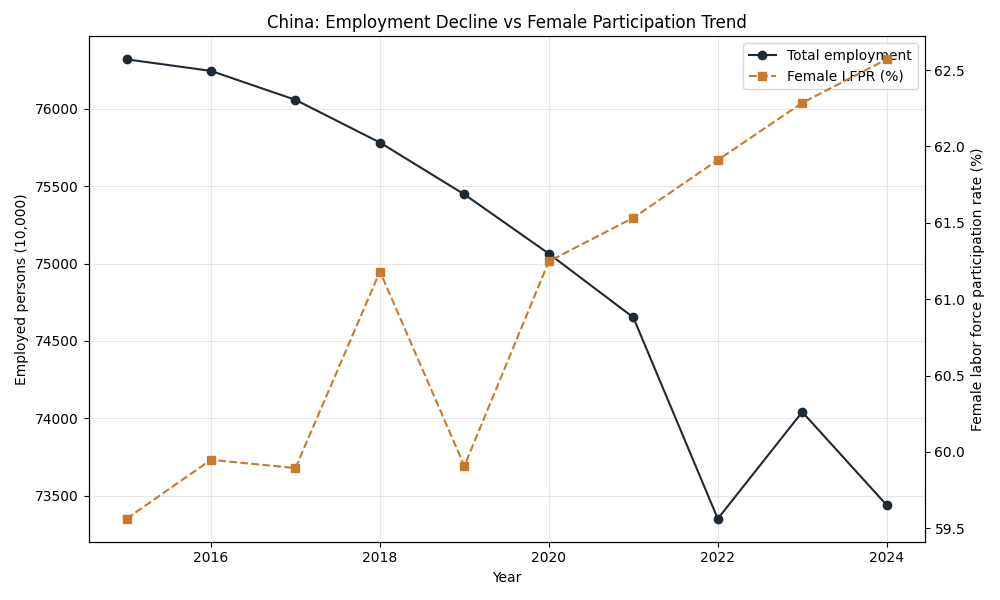
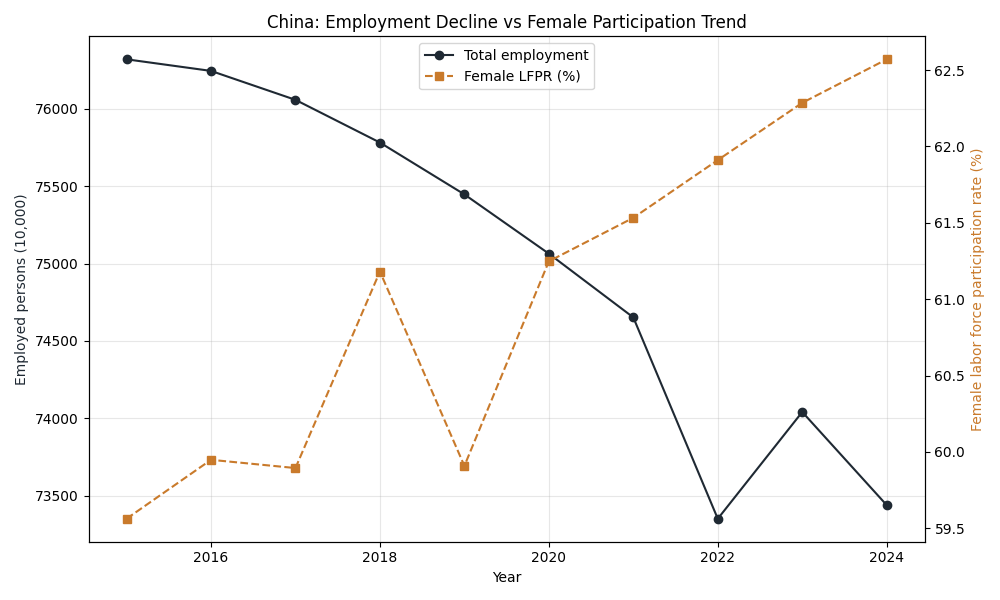
Fix all charts

diff --git a/07_visuals/CH_charts_code.py b/07_visuals/CH_charts_code.py
@@ -44,11 +44,11 @@ ax2 = ax1.twinx()
 # Left axis: total employment
 ax1.plot(df["Year"], df["Total"], marker="o", color=DARK, label="Total employment")
 ax1.set_xlabel("Year")
-ax1.set_ylabel("Employed persons (10,000)")
+ax1.set_ylabel("Employed persons (10,000)", color=DARK)
 
 # Right axis: female participation rate
 ax2.plot(df["Year"], df["Female_LFPR"], linestyle="--", marker="s", color=ORANGE, label="Female LFPR (%)")
-ax2.set_ylabel("Female labor force participation rate (%)")
+ax2.set_ylabel("Female labor force participation rate (%)", color=ORANGE)
 
 # Titles and grid
 plt.title("China: Employment Decline vs Female Participation Trend")
@@ -57,7 +57,7 @@ ax1.grid(alpha=0.3)
 # Combine legends
 lines1, labels1 = ax1.get_legend_handles_labels()
 lines2, labels2 = ax2.get_legend_handles_labels()
-ax1.legend(lines1 + lines2, labels1 + labels2, loc="upper right")
+ax1.legend(lines1 + lines2, labels1 + labels2, loc="upper center")
 
 plt.tight_layout()
 plt.show()
